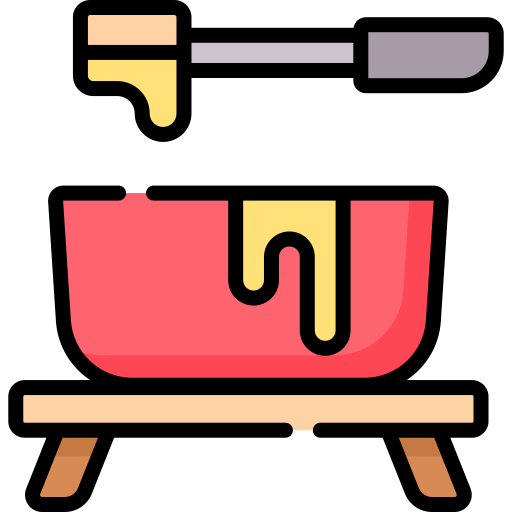
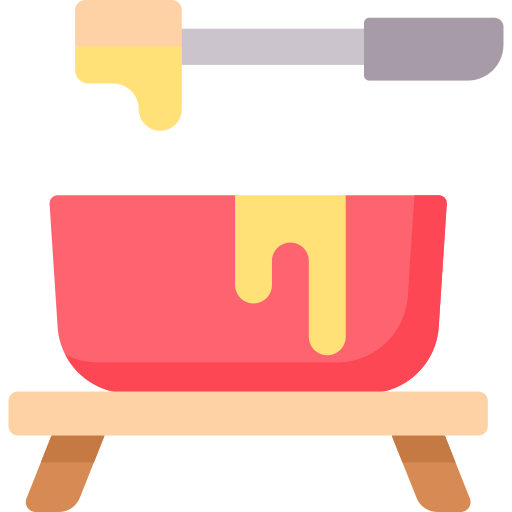
changed cheese and croissant image, added comments

Changed region(s): [[0.0, 0.3438, 0.9688, 1.0], [0.125, 0.0, 1.0, 0.2812]]

diff --git a/minigames.py b/minigames.py
@@ -4,13 +4,11 @@ import pygame
 import random
 import os
 
-#website where drawing thing came from :
-#https://thepythoncode.com/article/make-a-drawing-program-with-python#:~:text=In%20this%20tutorial%2C%20we%20will%20make%20a%20simple,feature.%20As%20always%2C%20we%20start%20with%20the%20imports.
 def draw(WIN, draw, x1, y1, x2, y2, x3, y3, x4, y4):
 
-    flag1 = False
-    flag2 = False
-    flag3 = False
+    flag1 = False #these flags represent whether the drawn circle has touched a coordinate
+    flag2 = False #there are 4 points to the arrow, so four coordinates (x1, y2), (x2, y2) etc. = four flags
+    flag3 = False 
     flag4 = False
     # the colour and size of the brush
     drawColour = [0, 0, 255]
@@ -19,36 +17,39 @@ def draw(WIN, draw, x1, y1, x2, y2, x3, y3, x4, y4):
 
     # Canvas
     canvas = pygame.Surface((canvasSize),pygame.SRCALPHA)
-    canvas.set_alpha(200)
+    canvas.set_alpha(200) 
+    #makes the canvas transparent so that it doesn't cover the background image
 
-    while draw:
+    while draw: #ensures that the user only draws when they havent drawn the arrow
         for event in pygame.event.get():
             if event.type == pygame.QUIT:
                 pygame.quit()
                 sys.exit()
                 break
         # Draw the Canvas at the center of the screen
-        x, y = WIN.get_size()
+        x, y = WIN.get_size() 
         WIN.blit(canvas, [x/2 - canvasSize[0]/2, y/2 - canvasSize[1]/2])
-        if flag1 == True and flag2 == True and flag3 == True and flag4 == True:
+        if flag1 == True and flag2 == True and flag3 == True and flag4 == True: 
+            #if all the flags have been set to true, they can no longer draw
             draw = False
-            pygame.display.update()
+            pygame.display.update() #updates the screen to show the final arrow 
 
-        position = "nothing"
-        dx = 0
+        dx = 0 
         dy = 0
         # Drawing with the mouse
-        if pygame.mouse.get_pressed()[0]:
-            mx, my = pygame.mouse.get_pos()
+        if pygame.mouse.get_pressed()[0]: #if the mouse is pressed
+            mx, my = pygame.mouse.get_pos() #get the position of the mouse
 
-            # Calculate Position on the Canvas
+            # Calculate the position of the mouse on the Canvas
             dx = mx - x/2 + canvasSize[0]/2
             dy = my - y/2 + canvasSize[1]/2
 
-            pygame.draw.circle(canvas, drawColour,[dx, dy], brushSize)
+            pygame.draw.circle(canvas, drawColour,[dx, dy], brushSize) #draws the circle
 
-        if (x1-5.0) <= dx <= (x1+5.0) and (y1-5.0) <= dy <= (y1+5.0):
-            flag1 = True
+        if (x1-5.0) <= dx <= (x1+5.0) and (y1-5.0) <= dy <= (y1+5.0): 
+            #this  ensures that the user doesnt need to get an exact coordinate, but instead a range within
+            #a certain area
+            flag1 = True #if the circle is drawn in the range, then the flag is set to true
         if (x2-5.0) <= dx <= (x2+5.0) and (y2-5.0) <= dy <= (y2+5.0):
             flag2 = True
         if (x3-5.0) <= dx <= (x3+5.0) and (y3-5.0) <= dy <= (y3+5.0):
@@ -56,9 +57,7 @@ def draw(WIN, draw, x1, y1, x2, y2, x3, y3, x4, y4):
         if (x4-5.0) <= dx <= (x4+5.0) and (y4-5.0) <= dy <= (y4+5.0):
             flag4 = True
 
-        pygame.display.update()
-    WIN.blit(canvas, [x/2 - canvasSize[0]/2, y/2 - canvasSize[1]/2])
-    pygame.display.update()
+        pygame.display.update() #updates the screen
       
 def assembly(window_x, window_y, WIN, main1Bg_image, bgPosition, assembly):
 

diff --git a/Culinary_Quest.py b/Culinary_Quest.py
@@ -1701,26 +1701,29 @@ def recipeScreen(mainLoop, recipeLoop, recipeChosen, username, theme_selected):
         pygame.display.update()
     return mainLoop, recipeLoop, recipeChosen
 
+
 def minigameScreen(minigameLoop):
     
-    draw = False
+    #checks which minigame should be ran
+    draw = True
     assembly = False
     flip = False
     fill = False
     mixing = False
-    seasoning = True
+    seasoning = False
 
-    arrow_text = Text(200, 112, "<--", login_red1, 500)
+    arrow_text = Text(200, 112, "<--", login_red1, 500) #a temporary arrow object
     fillBg_box = Box(300, 50, 500, 400, black, False)
     fill_box = Box(302, 540, 10, 396, white, True)
+    
+    while minigameLoop: #while the minigame loop is true
+        WIN.blit(main1Bg_image, bgPosition) #displays the background image
+        pygame.display.update()
 
-    while minigameLoop:
-        #WIN.blit(main1Bg_image, bgPosition)
-        #pygame.display.update()
-
-        while draw:
-            arrow_text.drawText()
+        while draw: #while draw is true
+            arrow_text.drawText() #draws the arrow
             draw = minigames.draw(WIN, draw, 334.0, 425.0, 340.0, 620.0, 684.0, 560.0, 129.0, 523.0)
+            #calls the subroutine and returns the value of draw so that it can be updated to be False
         while assembly:
             assembly = minigames.assembly(window_x, window_y, WIN, main1Bg_image, bgPosition, assembly)
         while flip:
